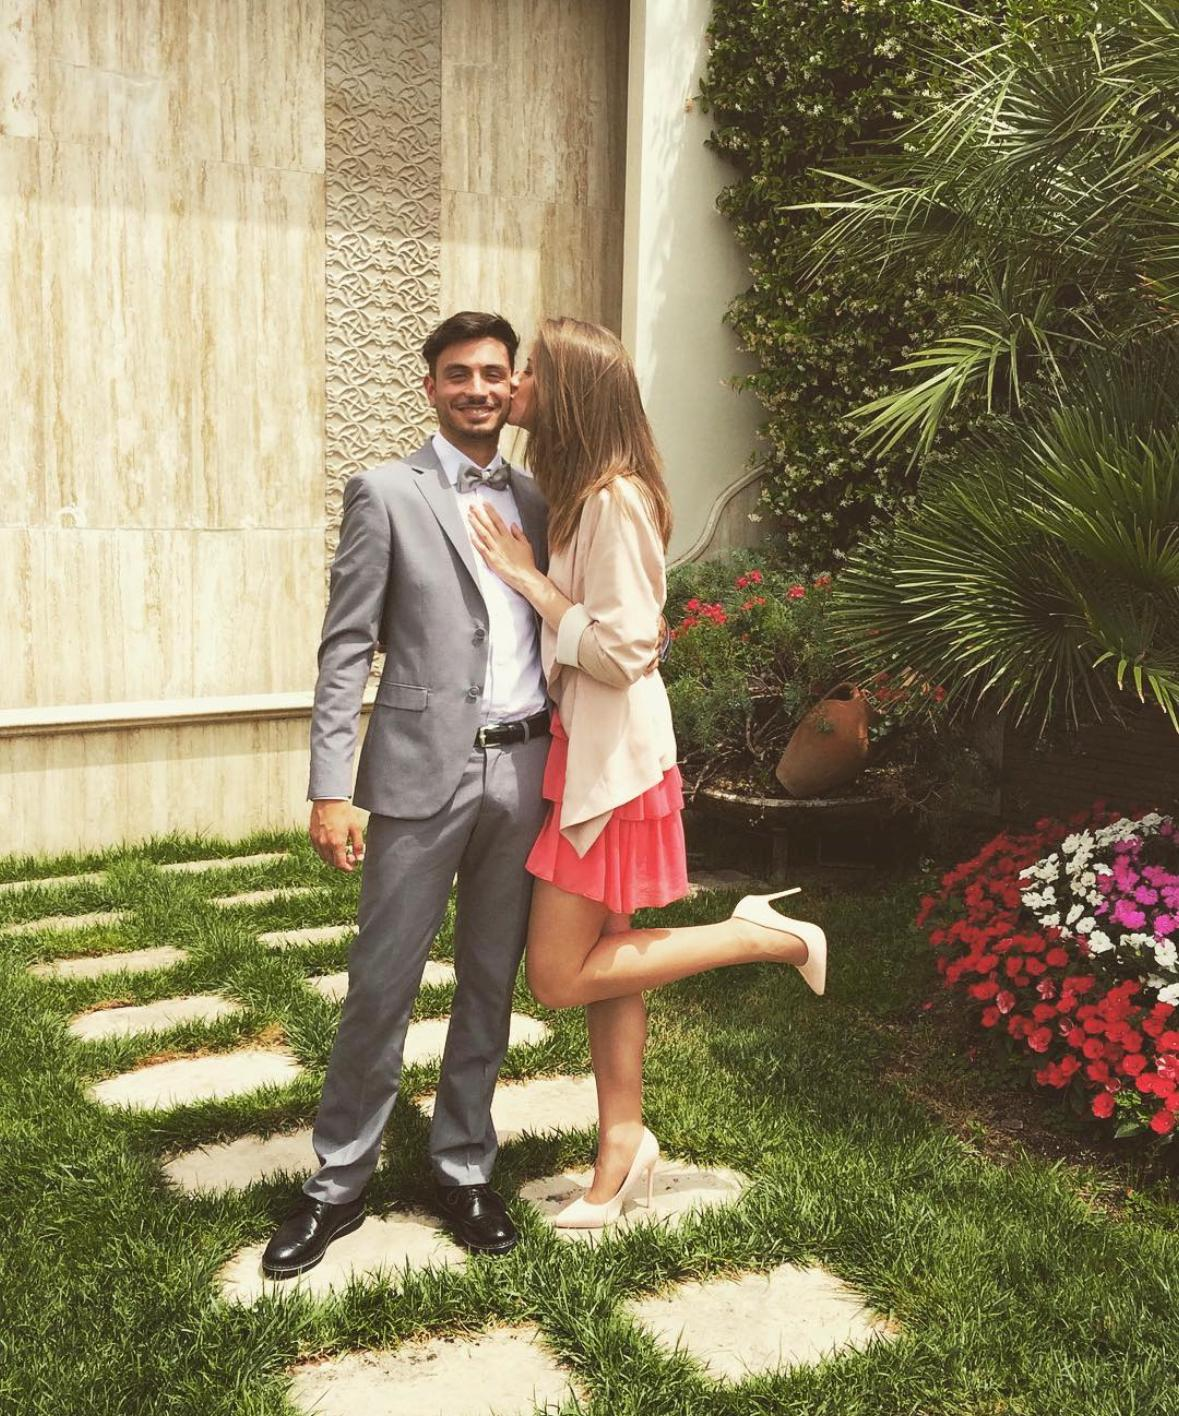
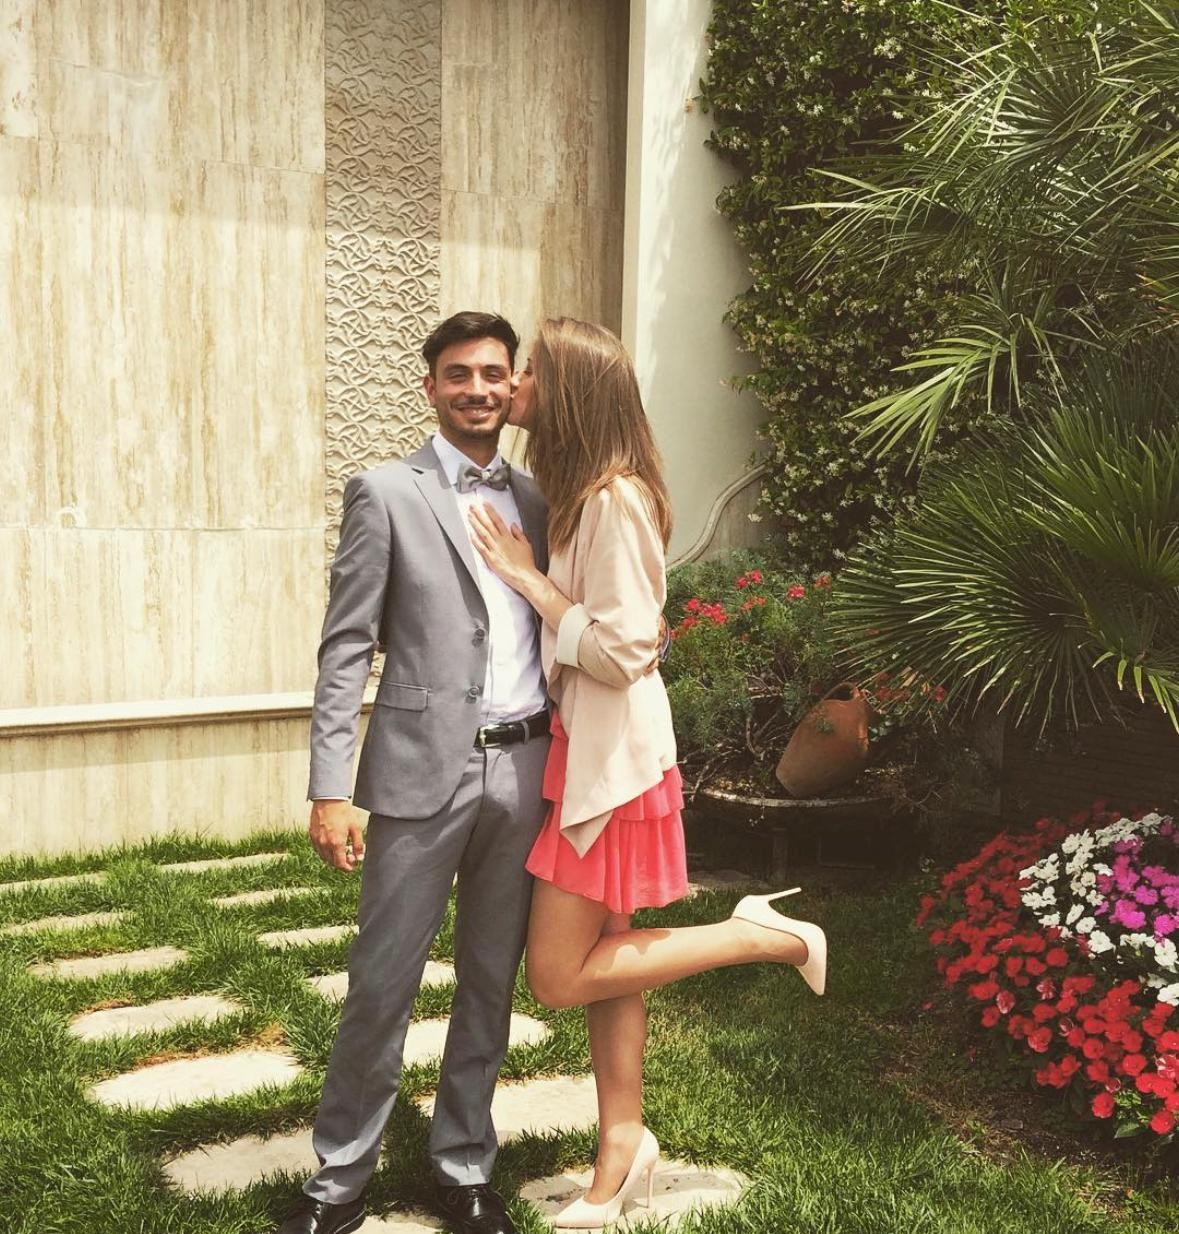
Merge branch 'main' into invitoGina # Please enter a commit message to explain why this merge is necessary, # especially if it merges an updated upstream into a topic branch. # # Lines starting with '#' will be ignored, and an empty message aborts # the commit.

diff --git a/src/pages/Admin.jsx b/src/pages/Admin.jsx
@@ -386,7 +386,7 @@ export default function Admin({ labels, onLogout }) {
                 </div>
 
                 <div className="bg-white rounded-xl shadow overflow-x-auto">
-                    <table className="w-full text-sm">
+                    <table className="w-full text-sm text-center">
                         <thead className="bg-gray-50 border-b">
                             <tr>
                                 <th className="p-4">Nome</th>
@@ -399,13 +399,14 @@ export default function Admin({ labels, onLogout }) {
                         <tbody className="divide-y">
                             {partecipantiFiltrati.map(p => (
                                 <tr key={p.id}>
-                                    <td className="p-4 font-medium">{p.name}</td>
+                                    <td className="p-4 font-medium text-center">{p.name}</td>
                                     <td className="p-4">{p.partecipate ? "Sì" : "No"}</td>
                                     <td className="p-4">{p.guests ?? 0}</td>
-                                    <td className="p-4 max-w-md break-words">
+                                    <td className="p-4 max-w-md break-words text-center">
                                         {p.message || "-"}
                                     </td>
-                                    <td className="p-4 flex gap-2">
+                                    <td className="p-4">
+                                        <div className="flex justify-center gap-2">
                                         <button onClick={() => setEditing(p)} className="text-blue-600">
                                             Modifica
                                         </button>
@@ -415,6 +416,7 @@ export default function Admin({ labels, onLogout }) {
                                         >
                                             Elimina
                                         </button>
+                                        </div>
                                     </td>
                                 </tr>
                             ))}

diff --git a/src/components/RSVP.jsx b/src/components/RSVP.jsx
@@ -105,22 +105,22 @@ export default function RSVP({ config }) {
           onClick={() => setShowSuccess(false)}
         >
           <div
-            className="bg-white rounded-xl shadow-xl p-6 max-w-sm w-full text-center space-y-4"
+            className="bg-surface rounded-card shadow-xl p-6 max-w-sm w-full text-center space-y-4"
             onClick={e => e.stopPropagation()}
           >
             <div className="text-4xl">{config.successIcon}</div>
 
-            <h2 className="text-xl font-bold text-gray-900">
+            <h2 className="text-xl font-bold text-primary">
               {config.successTitle}
             </h2>
 
-            <p className="text-gray-600">
+            <p className="text-text">
               {config.successMessage}
             </p>
 
             <button
               onClick={() => setShowSuccess(false)}
-              className="mt-4 bg-blue-600 text-white px-6 py-2 rounded-md hover:bg-blue-700"
+              className="btn mt-4"
             >
               {config.successButton}
             </button>

diff --git a/api/admin-login.js b/api/admin-login.js
@@ -1,9 +1,19 @@
-export default function handler(req, res) {
+async function readJsonBody(req) {
+  const chunks = [];
+
+  for await (const chunk of req) {
+    chunks.push(Buffer.isBuffer(chunk) ? chunk : Buffer.from(chunk));
+  }
+
+  const raw = Buffer.concat(chunks).toString("utf8").trim();
+  return raw ? JSON.parse(raw) : {};
+}
+
+export default async function handler(req, res) {
   if (req.method !== "POST") {
     return res.status(405).end();
   }
 
-  const { password } = req.body;
   const adminPassword = process.env.ADMIN_PASSWORD;
   const adminToken = process.env.ADMIN_TOKEN;
 
@@ -12,6 +22,16 @@ export default function handler(req, res) {
       error: "Configurazione admin mancante sul server",
     });
   }
+
+  let body;
+
+  try {
+    body = await readJsonBody(req);
+  } catch {
+    return res.status(400).json({ error: "Body JSON non valido" });
+  }
+
+  const { password } = body;
 
   if (password === adminPassword) {
     return res.status(200).json({
